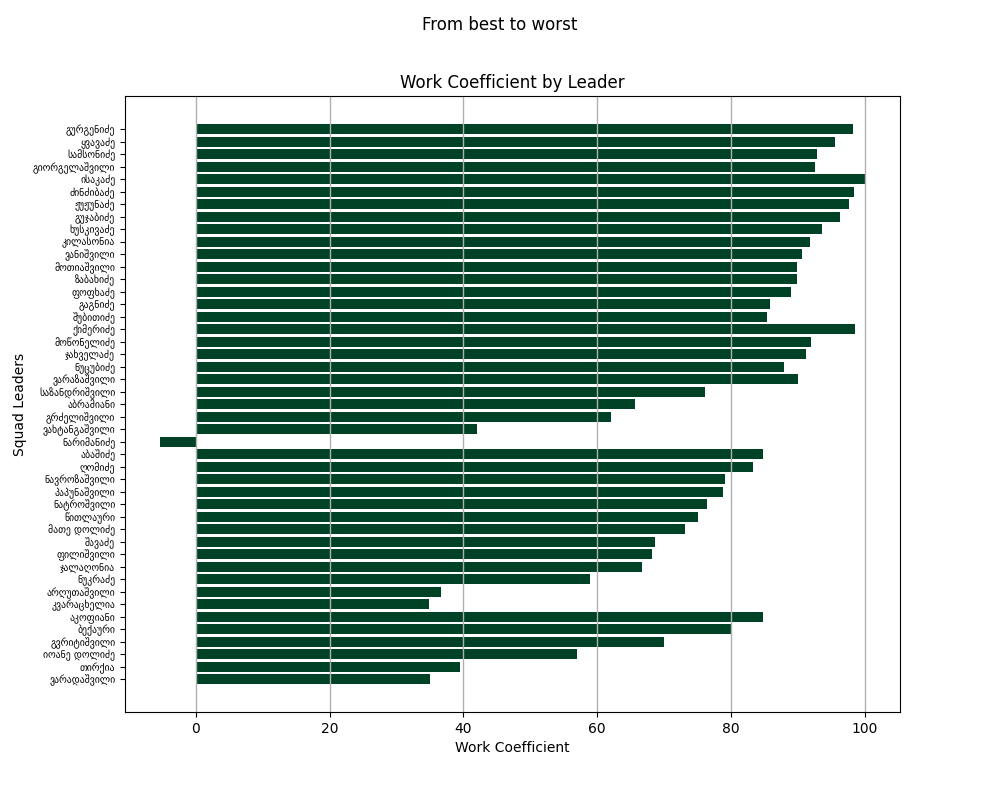
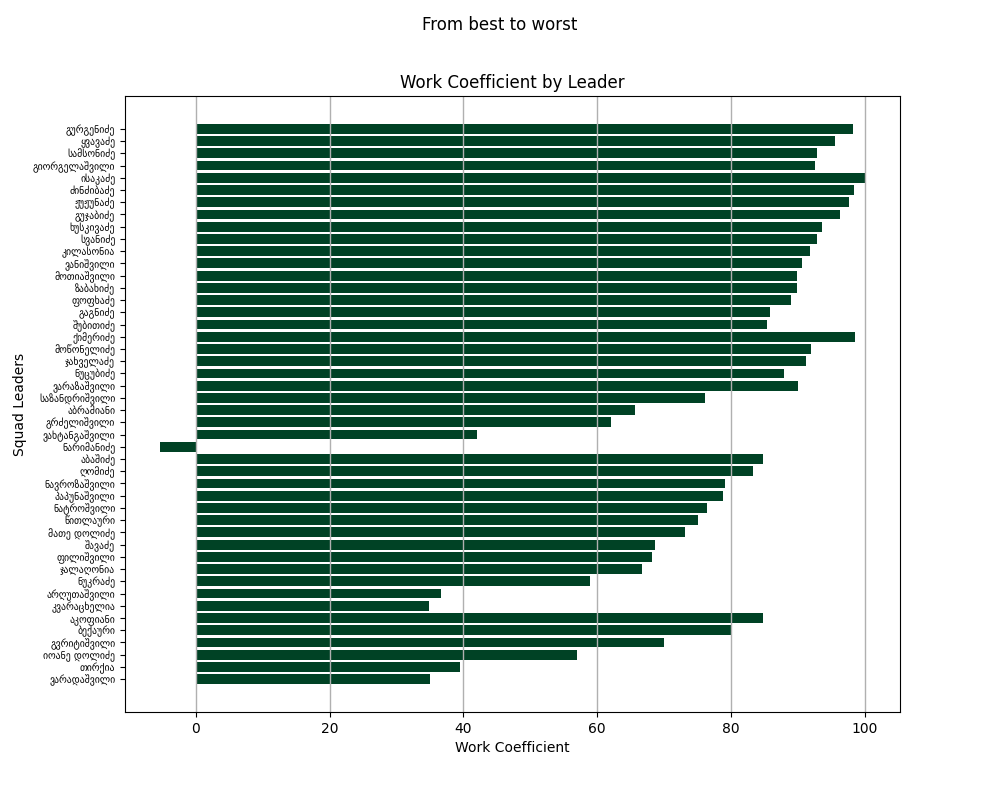
commit

Changed region(s): [[0.155, 0.1562, 0.868, 0.8125], [0.031, 0.1562, 0.124, 0.8438]]

diff --git a/Github check/Data/July/July Second/visualization.py b/Github check/Data/July/July Second/visualization.py
@@ -1,7 +1,7 @@
 import numpy as np
 import matplotlib.pyplot as plt
 
-data = [('გურგენიძე', 98.16793893, 327.5), ('ყვავაძე', 95.55555556, 270), ('სამსონიძე', 92.78481013, 395), ('გიორგელაშვილი', 92.63157895, 285),('ისაკაძე', 100, 152.5), ('ძინძიბაძე', 98.46153846, 162.5), ('ჟუჟუნაძე', 97.71428571, 175), ('გუჯაბიძე', 96.25, 160), ('ხუსკივაძე', 93.65853659, 205),('კილასონია', 91.86440678, 295), ('ვანიშვილი', 90.63492063, 315), ('მოთიაშვილი', 89.93710692, 397.5), ('ზაბახიძე', 89.92907801, 352.5), ('ფოფხაძე', 88.90625, 320), ('გაგნიძე', 85.84070796, 282.5), ('შუბითიძე', 85.44, 312.5),('ქიმერიძე', 98.51851852, 67.5),('მოწონელიძე', 92, 162.5), ('ჯახველაძე', 91.17647059, 170), ('ნუცუბიძე', 87.9245283, 132.5),('ვარაზაშვილი', 90, 75),('საზანდრიშვილი', 76.16666667, 300), ('აბრამიანი', 65.66666667, 300), ('გრძელიშვილი', 62.0083682, 597.5), ('ვახტანგაშვილი', 42.06896552, 580), ('ნარიმანიძე', -5.34351145, 327.5),('აბაშიძე', 84.84210526, 237.5), ('ღომიძე', 83.22580645, 155), ('ნავროზაშვილი', 79.15492958, 177.5), ('პაპუნაშვილი', 78.75, 160), ('ნატროშვილი', 76.4516129, 155), ('წითლაური', 75.11111111, 112.5), ('მათე დოლიძე', 73.125, 160), ('შავაძე', 68.62745098, 127.5), ('ფილიშვილი', 68.25396825, 157.5), ('ჯალაღონია', 66.66666667, 105), ('ნუკრაძე', 58.96103896, 192.5), ('არღუთაშვილი', 36.58536585, 205), ('კვარაცხელია', 34.83870968, 155),('აკოფიანი', 84.76190476, 52.5), ('ბექაური', 80, 45), ('გვრიტიშვილი', 70, 90), ('იოანე დოლიძე', 56.92307692, 97.5), ('თირქია', 39.45945946, 92.5), ('ვარადაშვილი', 35, 100)]
+data = [('გურგენიძე', 98.16793893, 327.5), ('ყვავაძე', 95.55555556, 270), ('სამსონიძე', 92.78481013, 395), ('გიორგელაშვილი', 92.63157895, 285),('ისაკაძე', 100, 152.5), ('ძინძიბაძე', 98.46153846, 162.5), ('ჟუჟუნაძე', 97.71428571, 175), ('გუჯაბიძე', 96.25, 160), ('ხუსკივაძე', 93.65853659, 205),('სვანიძე', 92.88135593, 147.5),('კილასონია', 91.86440678, 295), ('ვანიშვილი', 90.63492063, 315), ('მოთიაშვილი', 89.93710692, 397.5), ('ზაბახიძე', 89.92907801, 352.5), ('ფოფხაძე', 88.90625, 320), ('გაგნიძე', 85.84070796, 282.5), ('შუბითიძე', 85.44, 312.5),('ქიმერიძე', 98.51851852, 67.5),('მოწონელიძე', 92, 162.5), ('ჯახველაძე', 91.17647059, 170), ('ნუცუბიძე', 87.9245283, 132.5),('ვარაზაშვილი', 90, 75),('საზანდრიშვილი', 76.16666667, 300), ('აბრამიანი', 65.66666667, 300), ('გრძელიშვილი', 62.0083682, 597.5), ('ვახტანგაშვილი', 42.06896552, 580), ('ნარიმანიძე', -5.34351145, 327.5),('აბაშიძე', 84.84210526, 237.5), ('ღომიძე', 83.22580645, 155), ('ნავროზაშვილი', 79.15492958, 177.5), ('პაპუნაშვილი', 78.75, 160), ('ნატროშვილი', 76.4516129, 155), ('წითლაური', 75.11111111, 112.5), ('მათე დოლიძე', 73.125, 160), ('შავაძე', 68.62745098, 127.5), ('ფილიშვილი', 68.25396825, 157.5), ('ჯალაღონია', 66.66666667, 105), ('ნუკრაძე', 58.96103896, 192.5), ('არღუთაშვილი', 36.58536585, 205), ('კვარაცხელია', 34.83870968, 155),('აკოფიანი', 84.76190476, 52.5), ('ბექაური', 80, 45), ('გვრიტიშვილი', 70, 90), ('იოანე დოლიძე', 56.92307692, 97.5), ('თირქია', 39.45945946, 92.5), ('ვარადაშვილი', 35, 100)]
 
 names = [item[0] for item in data]
 coefficients = [item[1] for item in data]

diff --git a/Github check/Data/July/July Second/main.py b/Github check/Data/July/July Second/main.py
@@ -52,11 +52,11 @@ low_salary_low_eff = []
 # %, salary, name
 # calculate_work(0, 205, "Arghutashvili")
 
-coefficient = [100,98.51851852,98.46153846,98.16793893,97.71428571,96.25,95.55555556,93.65853659,92.78481013,92.63157895,92,91.86440678,91.17647059,90.63492063,90,89.93710692,89.92907801,88.90625,87.9245283,85.84070796,85.44,84.84210526,84.76190476,83.22580645,80,79.15492958,78.75,76.4516129,76.16666667,75.11111111,73.125,70,68.62745098,68.25396825,66.66666667,65.66666667,62.0083682,58.96103896,56.92307692,42.06896552,39.45945946,36.58536585,35,34.83870968,-5.34351145]
+coefficient = [100,98.51851852,98.46153846,98.16793893,97.71428571,96.25,95.55555556,93.65853659,92.78481013,92.63157895,92,91.86440678,91.17647059,90.63492063,90,89.93710692,89.92907801,88.90625,87.9245283,85.84070796,85.44,84.84210526,84.76190476,83.22580645,80,79.15492958,78.75,76.4516129,76.16666667,75.11111111,73.125,70,68.62745098,68.25396825,66.66666667,65.66666667,62.0083682,58.96103896,56.92307692,42.06896552,39.45945946,36.58536585,35,34.83870968,-5.34351145,92.88135593]
 
-Salaries = [152.5,67.5,162.5,327.5,175,160,270,205,395,285,162.5,295,170,315,75,397.5,352.5,320,132.5,282.5,312.5,237.5,52.5,155,45,177.5,160,155,300,112.5,160,90,127.5,157.5,105,300,597.5,192.5,97.5,580,92.5,205,100,155,327.5]
+Salaries = [152.5,67.5,162.5,327.5,175,160,270,205,395,285,162.5,295,170,315,75,397.5,352.5,320,132.5,282.5,312.5,237.5,52.5,155,45,177.5,160,155,300,112.5,160,90,127.5,157.5,105,300,597.5,192.5,97.5,580,92.5,205,100,155,327.5,147.5]
 
-names = ["ისაკაძე","ქიმერიძე","ძინძიბაძე","გურგენიძე","ჟუჟუნაძე","გუჯაბიძე","ყვავაძე","ხუსკივაძე","სამსონიძე","გიორგელაშვილი","მოწონელიძე","კილასონია","ჯახველაძე","ვანიშვილი","ვარაზაშვილი","მოთიაშვილი","ზაბახიძე","ფოფხაძე","ნუცუბიძე","გაგნიძე","შუბითიძე","აბაშიძე","აკოფიანი","ღომიძე","ბექაური","ნავროზაშვილი","პაპუნაშვილი","ნატროშვილი","საზანდრიშვილი","წითლაური","მათე დოლიძე","გვრიტიშვილი","შავაძე","ფილიშვილი","ჯალაღონია","აბრამიანი","გრძელიშვილი","ნუკრაძე","იოანე დოლიძე","ვახტანგაშვილი","თირქია","არღუთაშვილი","ვარადაშვილი","კვარაცხელია","ნარიმანიძე"]
+names = ["ისაკაძე","ქიმერიძე","ძინძიბაძე","გურგენიძე","ჟუჟუნაძე","გუჯაბიძე","ყვავაძე","ხუსკივაძე","სამსონიძე","გიორგელაშვილი","მოწონელიძე","კილასონია","ჯახველაძე","ვანიშვილი","ვარაზაშვილი","მოთიაშვილი","ზაბახიძე","ფოფხაძე","ნუცუბიძე","გაგნიძე","შუბითიძე","აბაშიძე","აკოფიანი","ღომიძე","ბექაური","ნავროზაშვილი","პაპუნაშვილი","ნატროშვილი","საზანდრიშვილი","წითლაური","მათე დოლიძე","გვრიტიშვილი","შავაძე","ფილიშვილი","ჯალაღონია","აბრამიანი","გრძელიშვილი","ნუკრაძე","იოანე დოლიძე","ვახტანგაშვილი","თირქია","არღუთაშვილი","ვარადაშვილი","კვარაცხელია","ნარიმანიძე","სვანიძე"]
 
 [calculate_work(coefficient[i], Salaries[i], names[i]) for i in range(len(names))]
 
